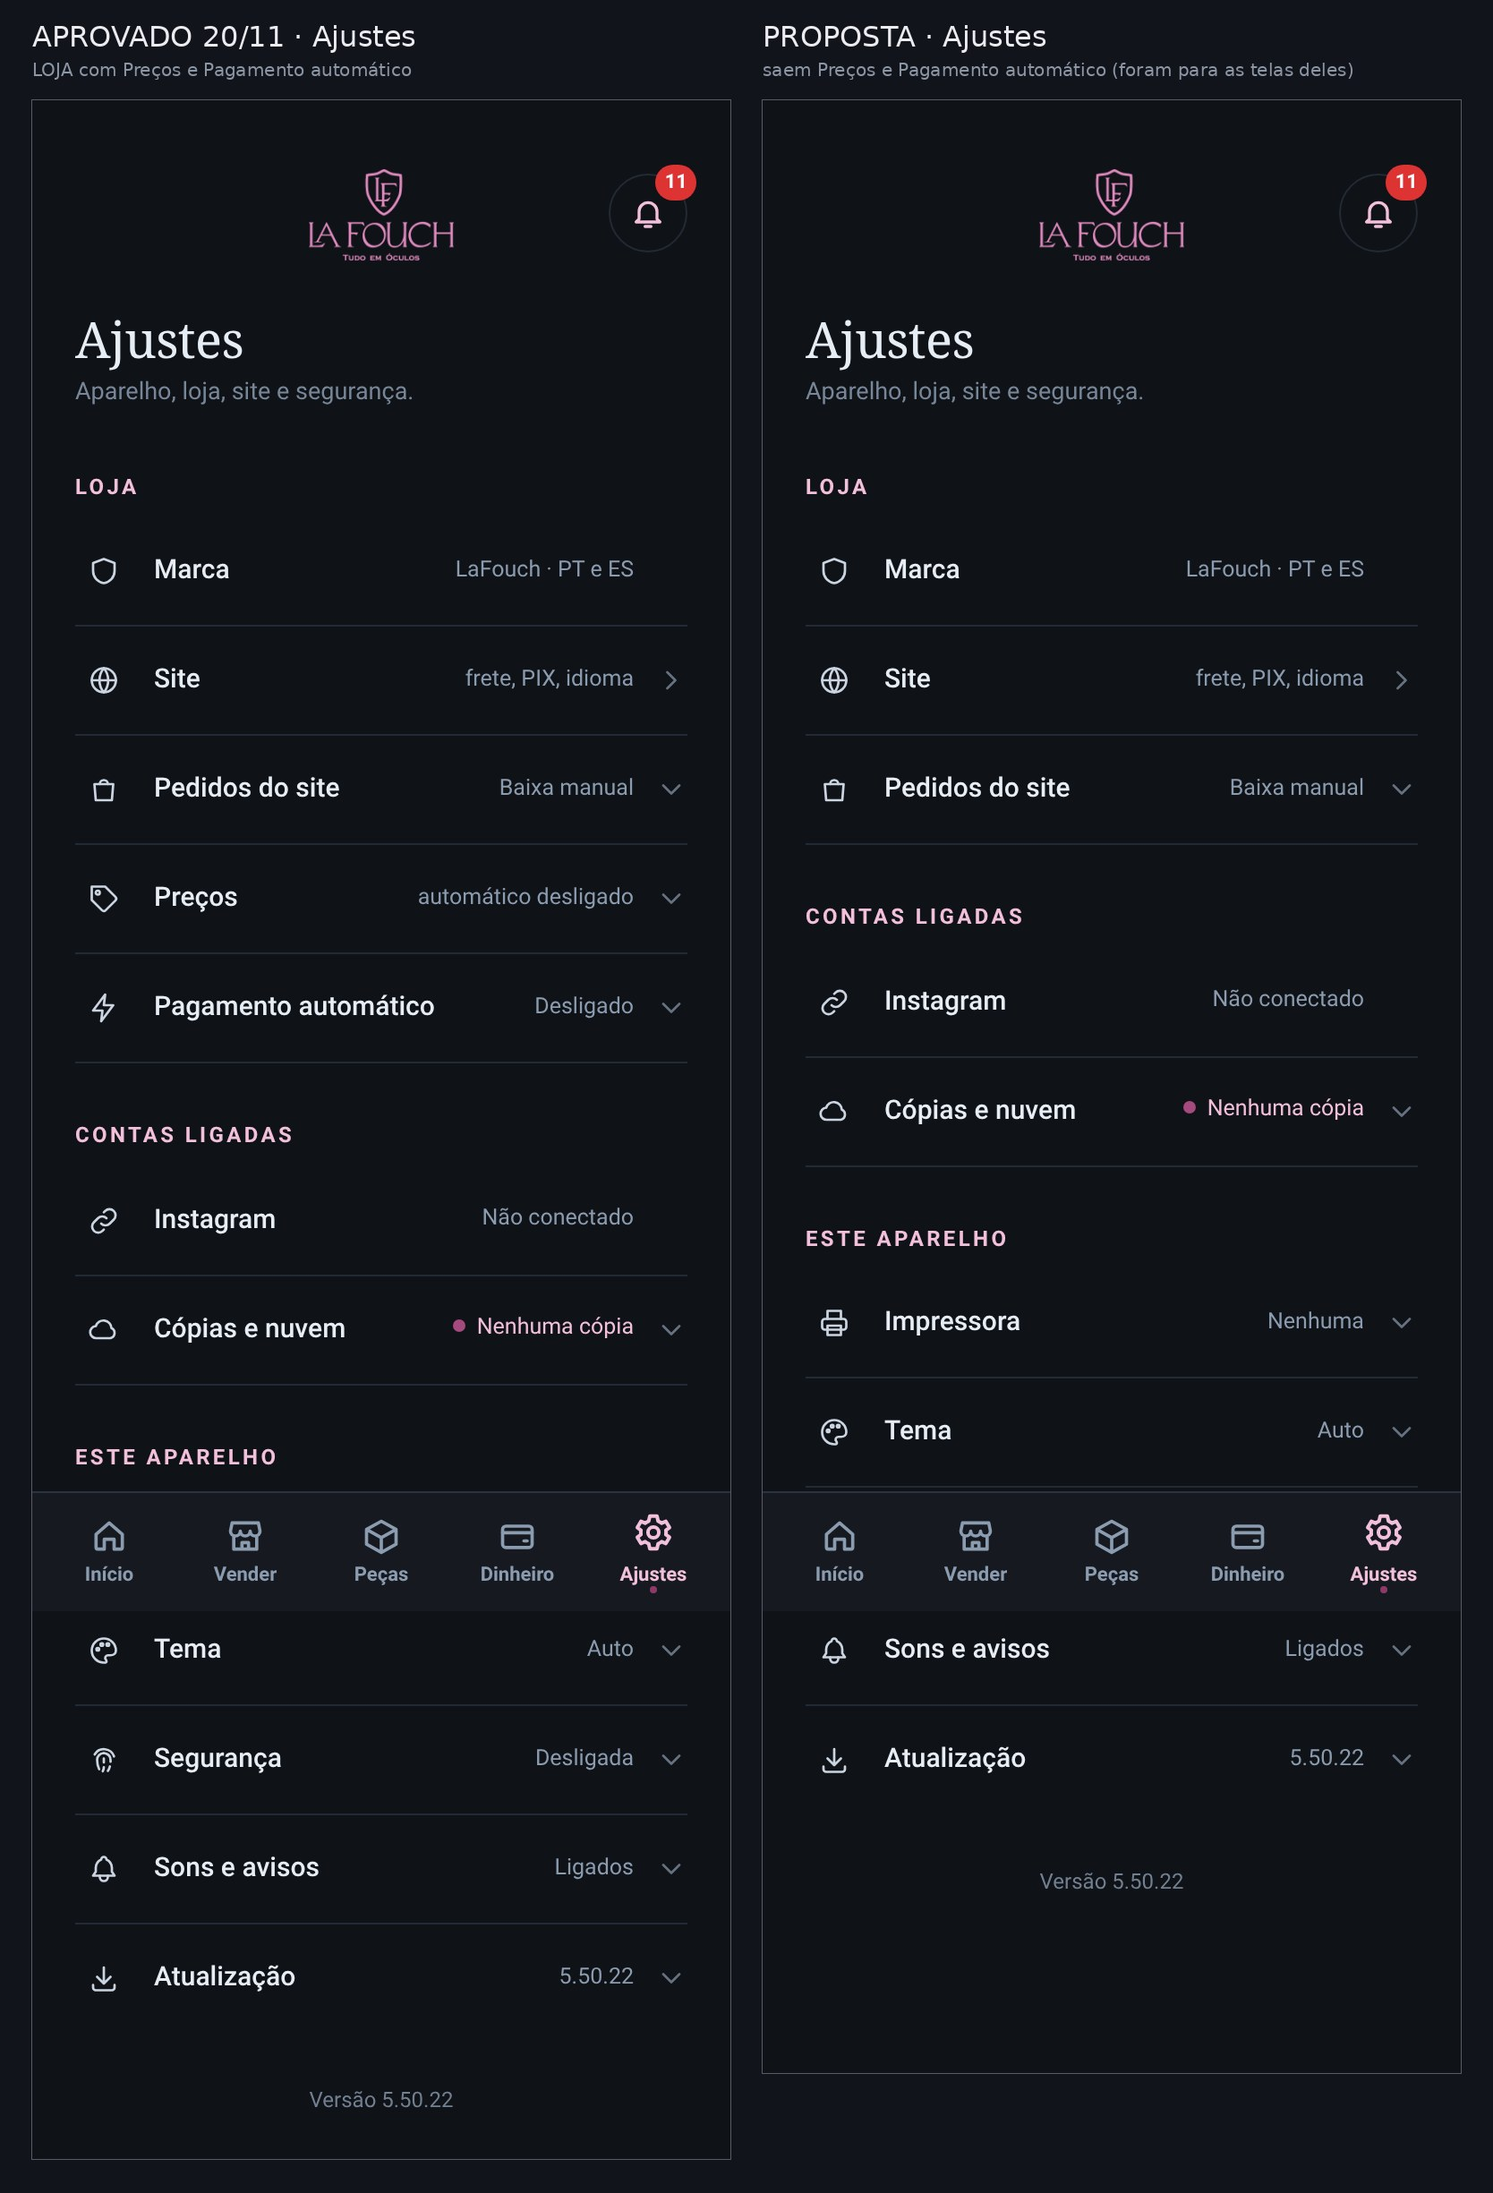
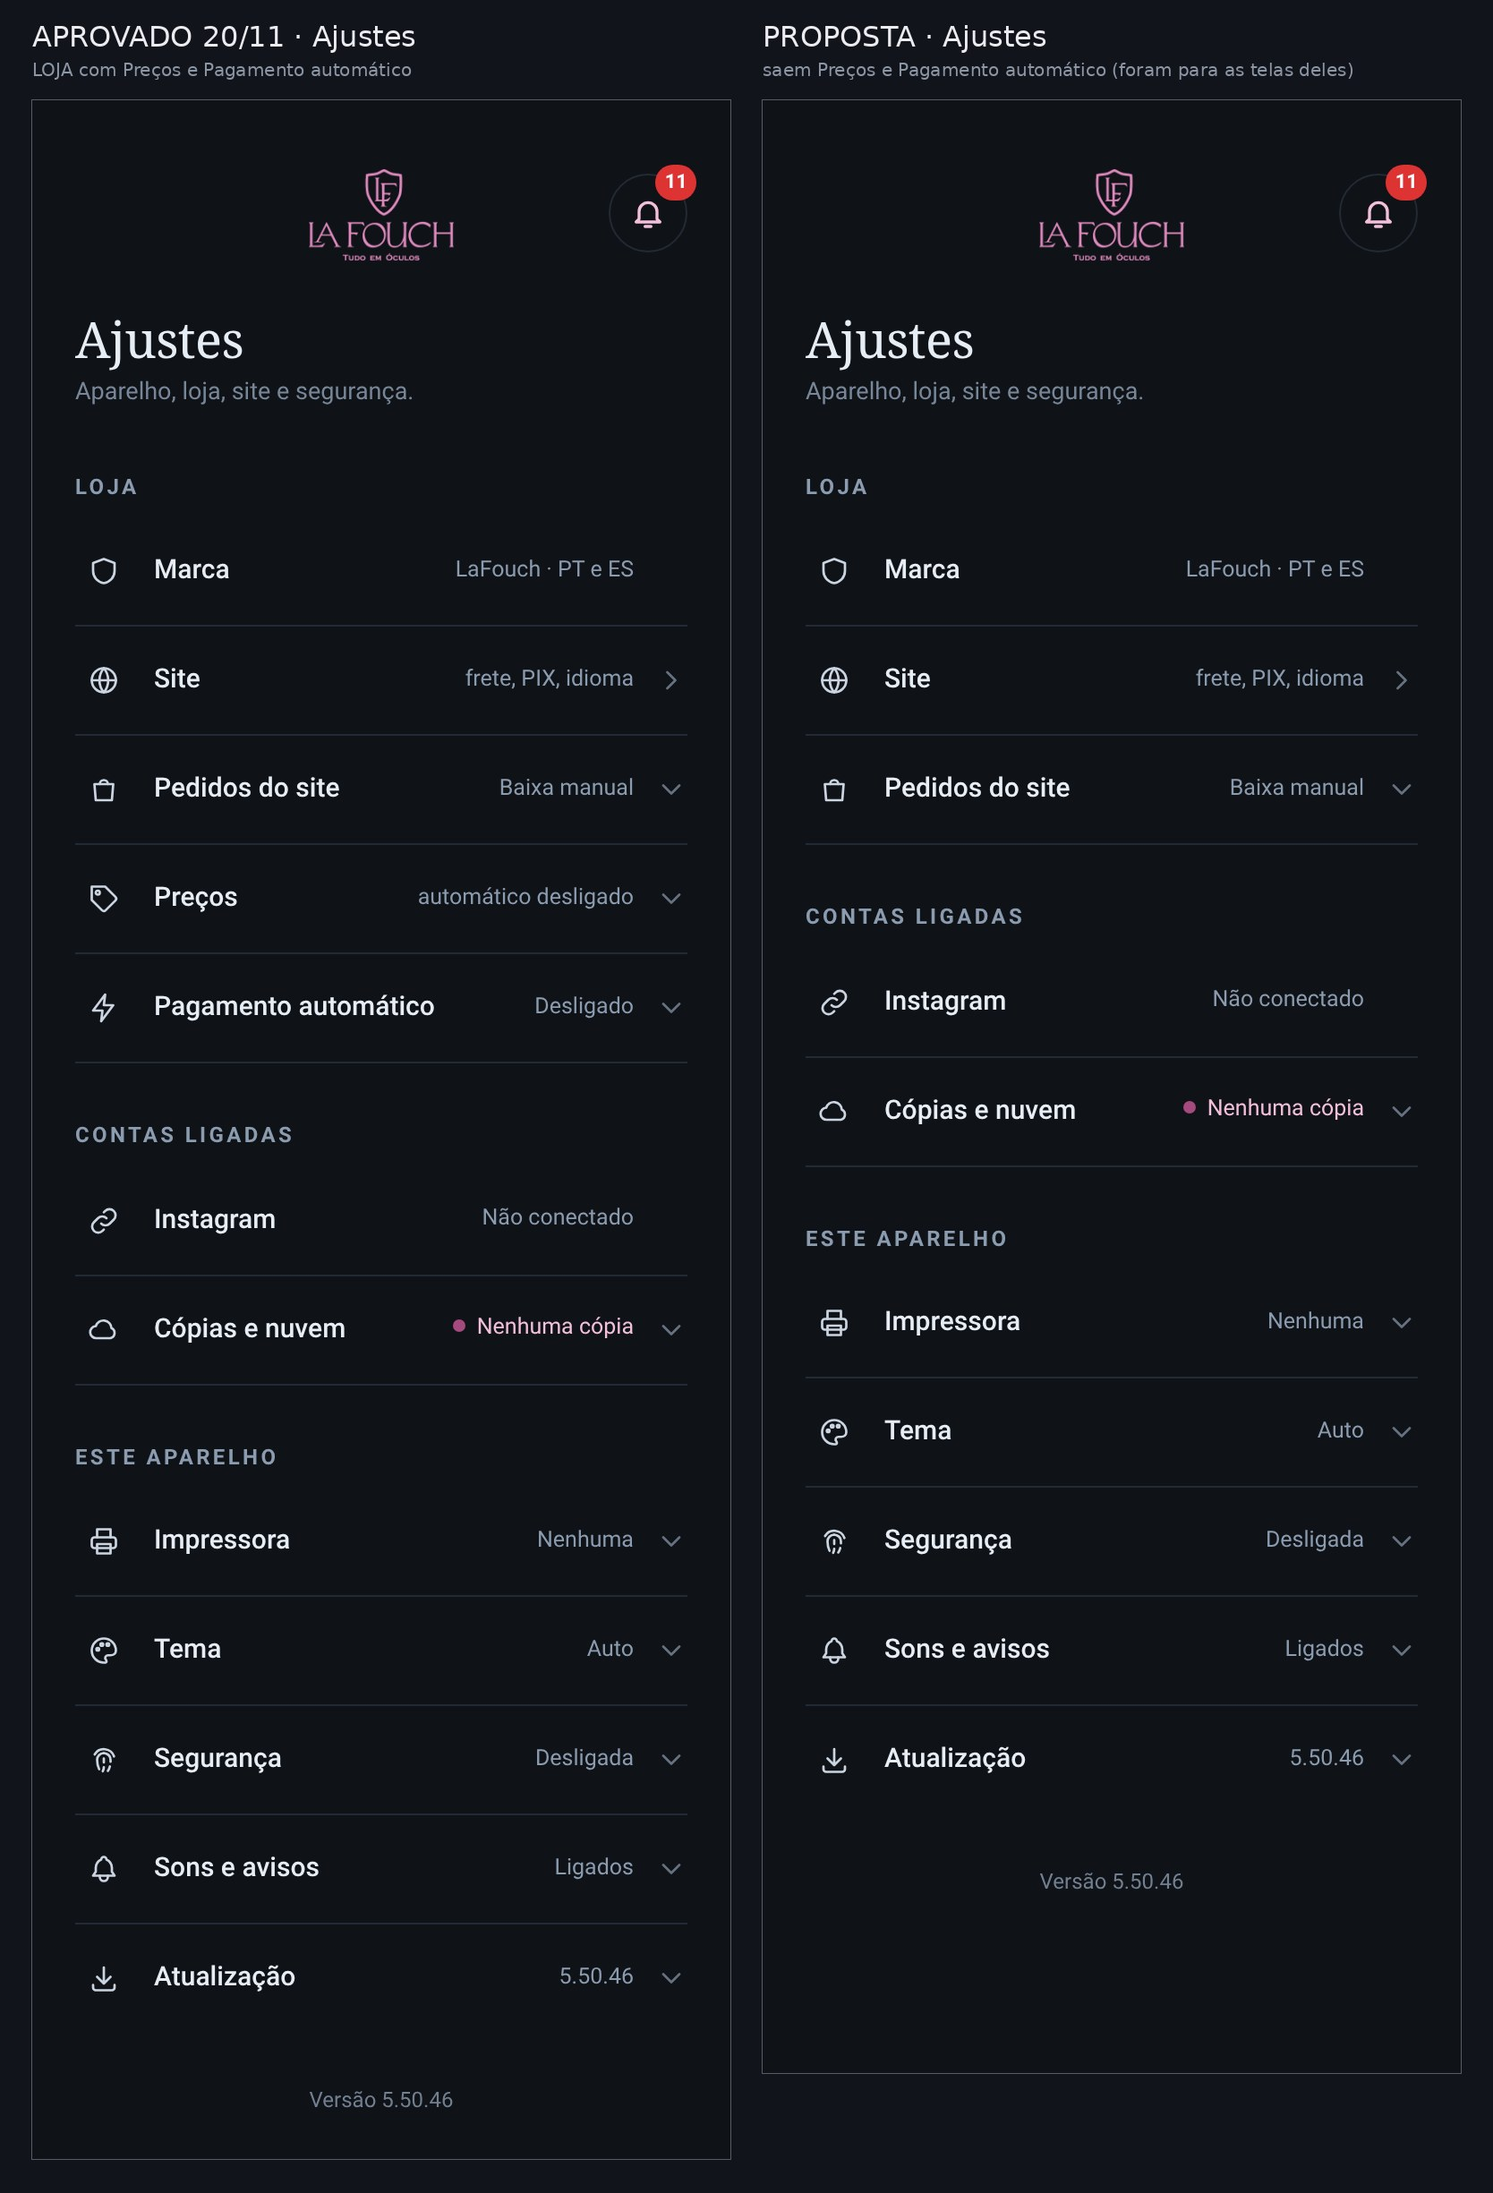
Esboço 46 refeito sobre 54 e Ajustes organizado; 46a obsoleto
Claude-Session: https://claude.ai/code/session_01Vj5GPRt4UBskC3w8v52h7G

diff --git a/work/s435/switch/esboco_46.py b/work/s435/switch/esboco_46.py
@@ -14,15 +14,41 @@ const PONTA=(t)=>{const h=[...document.querySelectorAll('.view:not([hidden]) .to
 def tira(pw,v,js=None,arg=None,pre=None,prep=None):
   b,pg,w=ap.abre(pw,v,True,'celular',base=True);w(800)
   if prep: pg.evaluate(prep);w(1200)
+  if prep==PREC: pg.evaluate(JS,IC);w(400)
   pg.add_style_tag(content='#nvBar{display:none!important}')
   if js: pg.evaluate(r"""(a)=>{"""+H+js+"}",arg);w(500)
   f='/tmp/s46.png';pg.screenshot(path=f);b.close();x=Image.open(f);x.load();return x.copy()
 SITE_P=r"""const fl=()=>{document.querySelectorAll('.cx97,.cx97 > *,.stG .stN,.st96,.pv97').forEach(e=>{['background','border','box-shadow','border-radius'].forEach(k=>e.style.setProperty(k,k=='border'?'0':'none','important'))});const c=document.querySelector('.cx97');if(c){c.style.setProperty('padding','0','important')}document.querySelectorAll('.pv97').forEach(e=>{e.style.setProperty('padding-left','0','important');e.style.setProperty('padding-right','0','important');e.style.setProperty('border-bottom','1px solid var(--line2)','important')});const g=document.querySelector('.stG');if(g){g.style.setProperty('gap','0','important');g.style.setProperty('border-top','1px solid var(--line2)','important')}document.querySelectorAll('.stG .stN').forEach((e,i)=>{e.style.setProperty('border-bottom','1px solid var(--line2)','important');if(i%2==0)e.style.setProperty('border-right','1px solid var(--line2)','important');e.style.setProperty('padding','16px 12px','important')})};fl();const c=document.querySelector('.cx97 .st96');if(c)c.remove();PONTA(PILL(1,'No ar'));"""
 SITE_J=SITE_P+r"""JAN('Site',SW('Site no ar','os clientes veem o catálogo agora',1)+'<div style="color:var(--mute);font-size:14px;line-height:1.45;margin:16px 0 0">Desligado, quem abre o site vê "Voltamos logo" e não consegue fazer pedido. Os pedidos que já existem continuam.</div>')"""
 PREC=r"""const S=__LF.S;S.dTab='prec';__LF.setView('dash')"""
-PREC_P=r"""const r=[...document.querySelectorAll('#ferr .nvL')].find(x=>/Preço automático/.test(x.textContent));if(r)r.remove();PONTA(PILL(0,'Automático'));"""
+IC=dict(
+ cor='<path d="M3 12V4h8l10 10-8 8z"/><circle cx="7.5" cy="8.5" r="1.5"/>',
+ of='<path d="M19 5L5 19"/><circle cx="7" cy="7" r="2.5"/><circle cx="17" cy="17" r="2.5"/>',
+ ev='<rect x="3" y="5" width="18" height="16" rx="2"/><path d="M3 10h18M8 3v4M16 3v4"/>',
+ reg='<path d="M4 6h16M4 12h16M4 18h10"/>',
+ at='<path d="M4 10h16v10H4z"/><path d="M3 10l2-6h14l2 6"/>',
+ fer='<rect x="5" y="3" width="14" height="18" rx="2"/><path d="M8 7h8M8 11h2M12 11h2M8 15h2M12 15h2"/>',
+ his='<path d="M3 12a9 9 0 1 0 3-6.7L3 8"/><path d="M3 3v5h5"/><path d="M12 7v5l3 2"/>')
+JS=r"""(I)=>{const v=document.getElementById('v-dash');const L='display:flex;align-items:center;gap:16px;min-height:64px;border-bottom:1px solid var(--line2)';
+const SV=p=>'<svg width="22" height="22" viewBox="0 0 24 24" fill="none" stroke="var(--mute)" stroke-width="2" stroke-linecap="round" stroke-linejoin="round" style="flex:none">'+p+'</svg>';
+const linha=(ic,t,s,c)=>'<div style="'+L+'">'+SV(ic)+'<div style="min-width:0;flex:1"><b style="font-size:16px;font-weight:500;display:block">'+t+'</b><small style="font-size:13px;color:'+(c||'var(--mute)')+';display:block;white-space:nowrap">'+s+'</small></div><span style="color:var(--mute);font-size:18px">›</span></div>';
+const tit=t=>'<div style="font-size:12px;font-weight:700;letter-spacing:.05em;text-transform:uppercase;color:var(--mute);margin:32px 0 8px">'+t+'</div>';
+const nv=v.querySelector('.nvVs');if(nv)nv.lastChild.textContent='Início';const s=v.querySelector('.dHdS');if(s)s.textContent='O escritório do Guardião';
+document.getElementById('dtabBody').innerHTML=
+ tit('O Guardião decide hoje · 3')+
+ linha(I.cor,'15 preços para corrigir','10 com sugestão · 5 sem custo','var(--warn,#e0b44c)')+
+ linha(I.of,'Oferta para o Lote Kazwini','parado há 430 dias · até 20% com margem boa')+
+ linha(I.ev,'Black Friday CDE','começa hoje · nenhuma peça entra pela regra')+
+ tit('Setores')+
+ linha(I.reg,'Regras','contas, taxas, meta e cotação da loja')+
+ linha(I.of,'Ofertas','automático desligado · degraus para parados')+
+ linha(I.at,'Atacado','7 tabelas · 15 peças abaixo de 10% em todas')+
+ linha(I.fer,'Ferramentas','calculadora de preço · e se…?')+
+ linha(I.his,'Histórico','o que mudou de preço, quando e por quê')}"""
+
+PREC_P=r"""PONTA(PILL(0,'Automático'));"""
 PREC_J=PREC_P+r"""const pl=(__LF.paPlano?__LF.paPlano():[]);const sob=pl.filter(m=>m.para>m.de).length,bai=pl.length-sob;
- JAN('Preço automático',SW('Preço automático','desligado · você define os preços à mão',0)+'<div style="color:var(--mute);font-size:14px;line-height:1.45;margin:16px 0 4px">Ao ligar, com os seus dados de hoje, o app faria:</div>'+LIN('Sobem',sob+(sob==1?' peça':' peças'))+LIN('Baixam (ofertas)',bai+(bai==1?' peça':' peças'))+LIN('Revisa','toda segunda')+'<div style="display:flex;align-items:center;justify-content:space-between;min-height:56px;border-bottom:1px solid var(--line2)"><span style="font-size:16px">Contas, taxas e meta</span><i style="font-style:normal;color:var(--mute);font-size:18px">⌄</i></div>')"""
+ JAN('Preço automático',SW('Preço automático','desligado · você define os preços à mão',0)+'<div style="color:var(--mute);font-size:14px;line-height:1.45;margin:16px 0 4px">Ao ligar, com os seus dados de hoje, o app faria:</div>'+LIN('Sobem',sob+(sob==1?' peça':' peças'))+LIN('Baixam (ofertas)',bai+(bai==1?' peça':' peças'))+LIN('Revisa','toda segunda')+'<div style="color:var(--mute);font-size:13px;margin:16px 0 0">Contas, taxas e meta ficam em Preços › Regras.</div>')"""
 PED_P=r"""PONTA(PILL(0,'Automático'));"""
 PED_J=PED_P+r"""JAN('Pagamento automático',SW('Confirmar o PIX sozinho','pelo Nubank · só no app do Android',0)+SW('Imprimir pedidos pagos sozinho','conecte uma impressora em Ajustes',0)+'<div style="color:var(--mute);font-size:14px;line-height:1.45;margin:16px 0 0">Ligado, o pedido pago por PIX vai para "Separar" sem você tocar em nada.</div>')"""
 JS3=r"""()=>{const g=document.getElementById('ajGrp');const L=k=>g.querySelector('.ajS[data-k="'+k+'"]');
@@ -35,7 +61,7 @@ JS3=r"""()=>{const g=document.getElementById('ajGrp');const L=k=>g.querySelector
  const ig=nova('ig','Instagram','Não conectado','<path d="M10 14a4.5 4.5 0 0 0 6.4 0l3-3a4.5 4.5 0 0 0-6.4-6.4l-1 1"></path><path d="M14 10a4.5 4.5 0 0 0-6.4 0l-3 3a4.5 4.5 0 0 0 6.4 6.4l1-1"></path>',false);
  // Pedidos do site: ícone próprio (sacola), o globo fica só no Site
  L('ped').querySelector('.ajIc').innerHTML=sv('<path d="M5 8h14l-1 12H6z"></path><path d="M9 8a3 3 0 0 1 6 0"></path>');
- const tit=t=>{const d=document.createElement('div');d.textContent=t;d.style.cssText='font-size:12px;font-weight:700;letter-spacing:.14em;text-transform:uppercase;color:var(--accent-fg,'+R+');margin:32px 0 8px';return d};
+ const tit=t=>{const d=document.createElement('div');d.textContent=t;d.style.cssText='font-size:12px;font-weight:700;letter-spacing:.14em;text-transform:uppercase;color:var(--mute);margin:32px 0 8px';return d};
  const ordem=[['Loja',[marca,L('site'),L('ped'),L('preco'),L('pauto')]],['Contas ligadas',[ig,L('bk')]],['Este aparelho',[L('imp'),L('tema'),L('seg'),L('av'),L('upd')]]];
  g.innerHTML='';ordem.forEach(([t,ls],i)=>{const h=tit(t);if(i===0)h.style.marginTop='16px';g.appendChild(h);ls.forEach(x=>g.appendChild(x))});
  const sub=document.querySelector('#v-ajustes .top .crumb, #v-ajustes .top div');}"""
@@ -45,14 +71,14 @@ def quadro(arq,q):
     x=g+i*(w+g);d.text((x,22),t,font=F(32),fill=(235,235,240));d.text((x,66),s,font=F(20),fill=(140,150,165));S.paste(im,(x,112));d.rectangle([x-1,111,x+w,112+h],outline=(90,90,100))
   S.save(O+arq,quality=88);print('ok',arq)
 with sync_playwright() as pw:
-  quadro('esboco_46a_site.jpg',[('HOJE · Site › Resumo','"Estado do site" abre o painel do site',tira(pw,'site')),('PROPOSTA · Resumo','botão "● No ar" ao lado do título',tira(pw,'site',SITE_P)),('PROPOSTA · tocar no botão','janela com o interruptor · sem confirmação',tira(pw,'site',SITE_J))])
-  quadro('esboco_46b_precos.jpg',[('HOJE · Preços (aprovados)','"Preço automático · em Ajustes ›"',tira(pw,'inicio',prep=PREC)),('PROPOSTA · Preços','botão "○ Automático" ao lado do título',tira(pw,'inicio',PREC_P,prep=PREC)),('PROPOSTA · tocar no botão','interruptor + o que mudaria + contas e meta',tira(pw,'inicio',PREC_J,prep=PREC))])
+  if 0: quadro('esboco_46a_site.jpg',[('HOJE · Site › Resumo','"Estado do site" abre o painel do site',tira(pw,'site')),('PROPOSTA · Resumo','botão "● No ar" ao lado do título',tira(pw,'site',SITE_P)),('PROPOSTA · tocar no botão','janela com o interruptor · sem confirmação',tira(pw,'site',SITE_J))])
+  quadro('esboco_46b_precos.jpg',[('APROVADO · Preços (54)','escritório do Guardião',tira(pw,'inicio',prep=PREC)),('PROPOSTA · Preços','botão "○ Automático" ao lado do título',tira(pw,'inicio',PREC_P,prep=PREC)),('PROPOSTA · tocar no botão','interruptor + o que mudaria',tira(pw,'inicio',PREC_J,prep=PREC))])
   quadro('esboco_46c_pedidos.jpg',[('HOJE · Pedidos online','o PIX automático mora em Ajustes',tira(pw,'ped')),('PROPOSTA · Pedidos online','botão "○ Automático" ao lado do título',tira(pw,'ped',PED_P)),('PROPOSTA · tocar no botão','os dois interruptores do pagamento',tira(pw,'ped',PED_J))])
 
   def aj(prop):
     b,pg,w=ap.abre(pw,'ajustes',True,'celular',base=True);w(800);pg.evaluate(JS3);w(400)
     if prop: pg.evaluate("()=>{const f=()=>{document.querySelectorAll('#ajPreco,.ajS[data-k=preco],.ajS[data-k=pauto]').forEach(e=>e.style.setProperty('display','none','important'))};f();setInterval(f,100)}");w(600)
-    pg.add_style_tag(content='#nvBar{display:none!important}')
+    pg.add_style_tag(content='#nvBar,#mainnav{display:none!important}')
     f='/tmp/s46aj.png';pg.screenshot(path=f,full_page=True);b.close();x=Image.open(f);x.load();x=x.crop((0,0,780,min(x.height,2300)));return x.copy()
   q=[('APROVADO 20/11 · Ajustes','LOJA com Preços e Pagamento automático',aj(False)),('PROPOSTA · Ajustes','saem Preços e Pagamento automático (foram para as telas deles)',aj(True))]
   g=36;w=780;h=max(i.height for _,_,i in q);S=Image.new('RGB',(g+2*(w+g),h+150),(17,20,26));d=ImageDraw.Draw(S)

diff --git a/docs/FALTA-APROVAR-15-11.md b/docs/FALTA-APROVAR-15-11.md
@@ -1029,3 +1029,4 @@ Não são esquecimento (estavam na lista, parados de propósito ou por ordem do 
 - 22/11 00:26 · DONO: o papel do ESBOCO é ANOTAR as ideias dele e ir REFINANDO — tecnicamente é a mesma ideia, só que melhorada; o 'implementa' recebe só a versão final (menos trabalho para ele).
 - 22/11 00:29 · DONO REPROVOU o 49a ('a proposta do Atacado tá muito feia'): o Atacado MANTÉM as 4 abas (exceção aceita à regra das abas). 49a foi para obsoletos.
 - [x] **v622 (22/11) — esboço 41 parte 3 (Galeria da peça):** "Galeria ›" em cada linha do Estúdio abre a peça: Frente, 3/4 e Giro · 360° (arrastar gira, com a conta do site), Refazer/Tirar agora/Gravar agora pelos caminhos da fila, "Ver a ficha da peça ›" no fim. Esboço 41a/41b completo (v619, v621, v622); 41c espera o dono. Trava: "Esboço 41 (3)". Simulador 372/373 no cheio (a prova do leitor de código do PC é instável: passou 3× sozinha); NÃO testado em aparelho real.
+- 22/11 00:40 · DONO: o 46 usava design velho. Refeito sobre os aprovados: 46b em cima do 54 (Preços = escritório do Guardião; pílula '○ Automático' ao lado do título; a janela não traz mais 'Contas, taxas e meta', que ficam em Preços › Regras) · 46c Pedidos online (sem redesenho aprovado; igual) · 46d em cima do Ajustes organizado aprovado (20/11) com rótulos CINZA (aprovado 21/11 17:54), saindo Preços e Pagamento automático · 46a foi para obsoletos (o Site espera o redesenho do painel).

diff --git a/docs/MEMORIA-PROJETO.md b/docs/MEMORIA-PROJETO.md
@@ -3535,3 +3535,4 @@ Testar TUDO, com muita calma, antes de dizer que está pronto ou de publicar: ca
 - 22/11 00:26 · DONO: o papel do ESBOCO é ANOTAR as ideias dele e ir REFINANDO — tecnicamente é a mesma ideia, só que melhorada; o 'implementa' recebe só a versão final (menos trabalho para ele).
 - 22/11 00:29 · DONO REPROVOU o 49a ('a proposta do Atacado tá muito feia'): o Atacado MANTÉM as 4 abas (exceção aceita à regra das abas). 49a foi para obsoletos.
 - [x] **v622 (22/11) — esboço 41 parte 3 (Galeria da peça):** "Galeria ›" em cada linha do Estúdio abre a peça: Frente, 3/4 e Giro · 360° (arrastar gira, com a conta do site), Refazer/Tirar agora/Gravar agora pelos caminhos da fila, "Ver a ficha da peça ›" no fim. Esboço 41a/41b completo (v619, v621, v622); 41c espera o dono. Trava: "Esboço 41 (3)". Simulador 372/373 no cheio (a prova do leitor de código do PC é instável: passou 3× sozinha); NÃO testado em aparelho real.
+- 22/11 00:40 · DONO: o 46 usava design velho. Refeito sobre os aprovados: 46b em cima do 54 (Preços = escritório do Guardião; pílula '○ Automático' ao lado do título; a janela não traz mais 'Contas, taxas e meta', que ficam em Preços › Regras) · 46c Pedidos online (sem redesenho aprovado; igual) · 46d em cima do Ajustes organizado aprovado (20/11) com rótulos CINZA (aprovado 21/11 17:54), saindo Preços e Pagamento automático · 46a foi para obsoletos (o Site espera o redesenho do painel).

diff --git a/work/obsoletos/s435-superados-21-11/LEIA.md b/work/obsoletos/s435-superados-21-11/LEIA.md
@@ -5,3 +5,4 @@
 - esboco_49c_precos_corrigir.jpg — selo 15 na linha Preços de "Giro e preços" → superado: a família Giro e preços se desfaz (52) e os preços para corrigir vão para "O Guardião decide hoje" (54).
 Também superado EM PARTE (esboço de outra sessão, não movido): 149p — o preço automático e "Contas, taxas e meta" saem de Ajustes e vão para Preços › Regras/Ofertas (54).
 - esboco_49a_atacado.jpg — REPROVADO pelo dono 22/11 00:29 ('muito feia'): o Atacado MANTÉM as abas (Mensagens · Lojistas · Lotes · Tabela).
+- esboco_46a_site.jpg — superado 22/11: o botão de estado do Site será desenhado junto com o redesenho do painel do Site (estudo 47), sobre a base nova.
